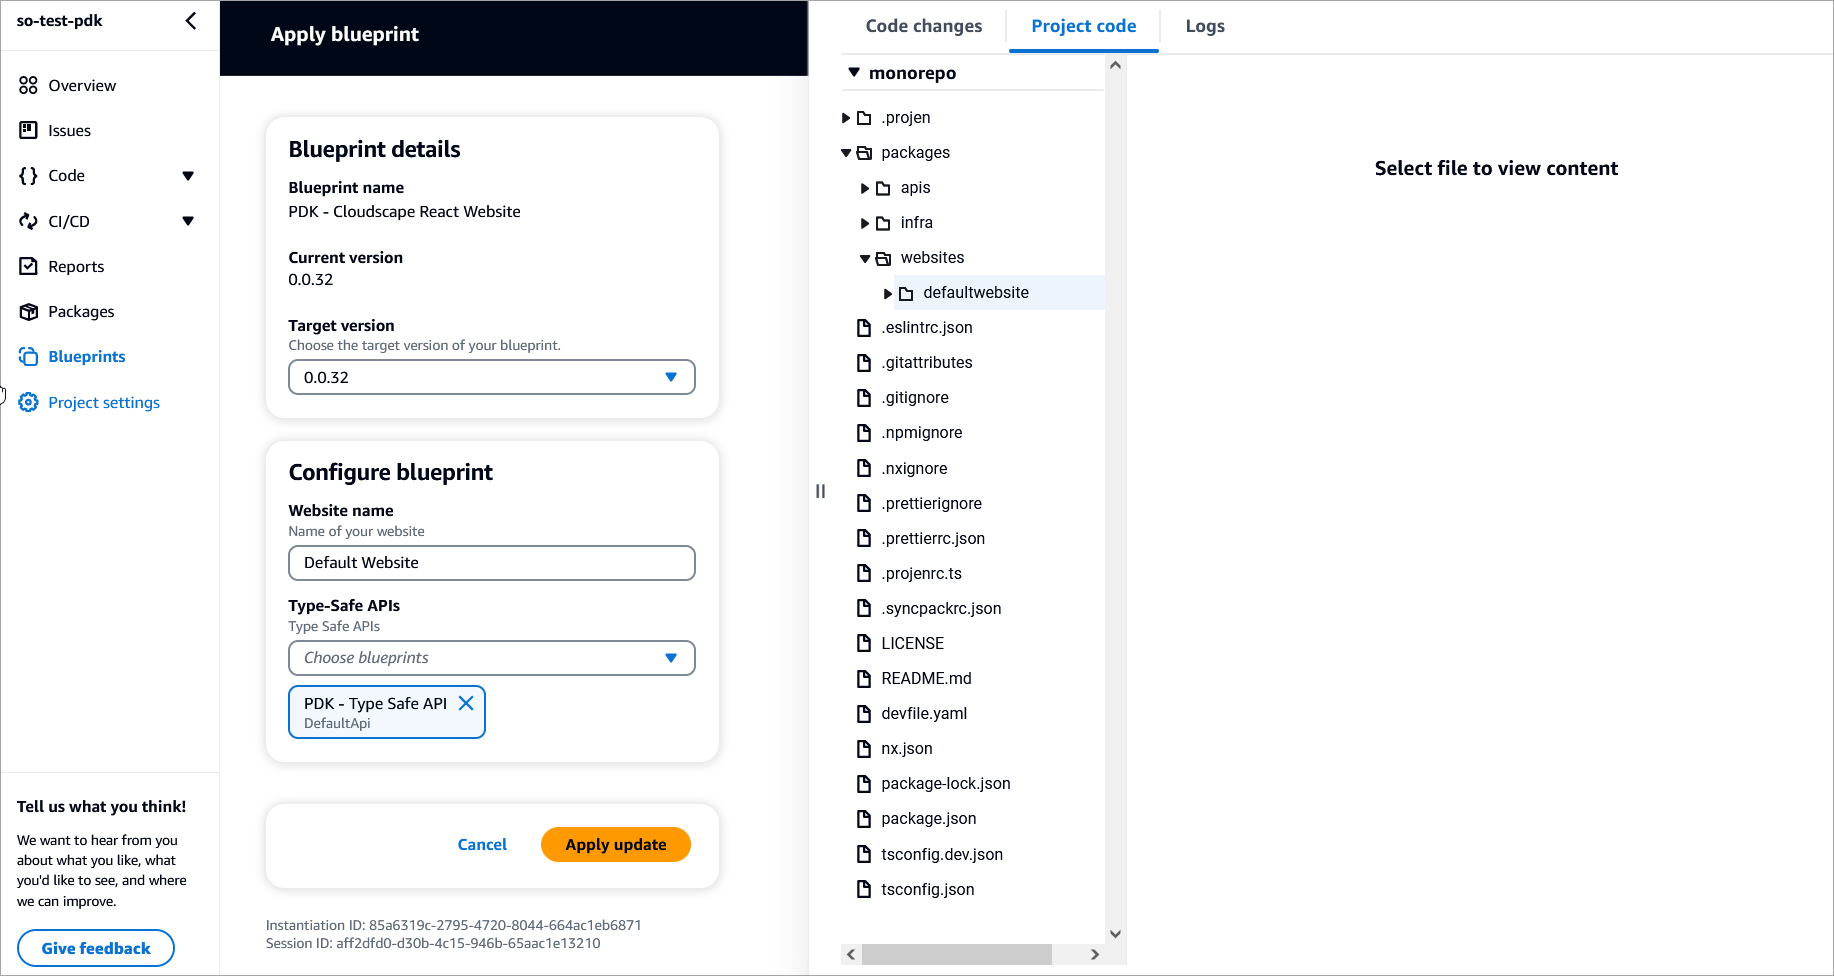
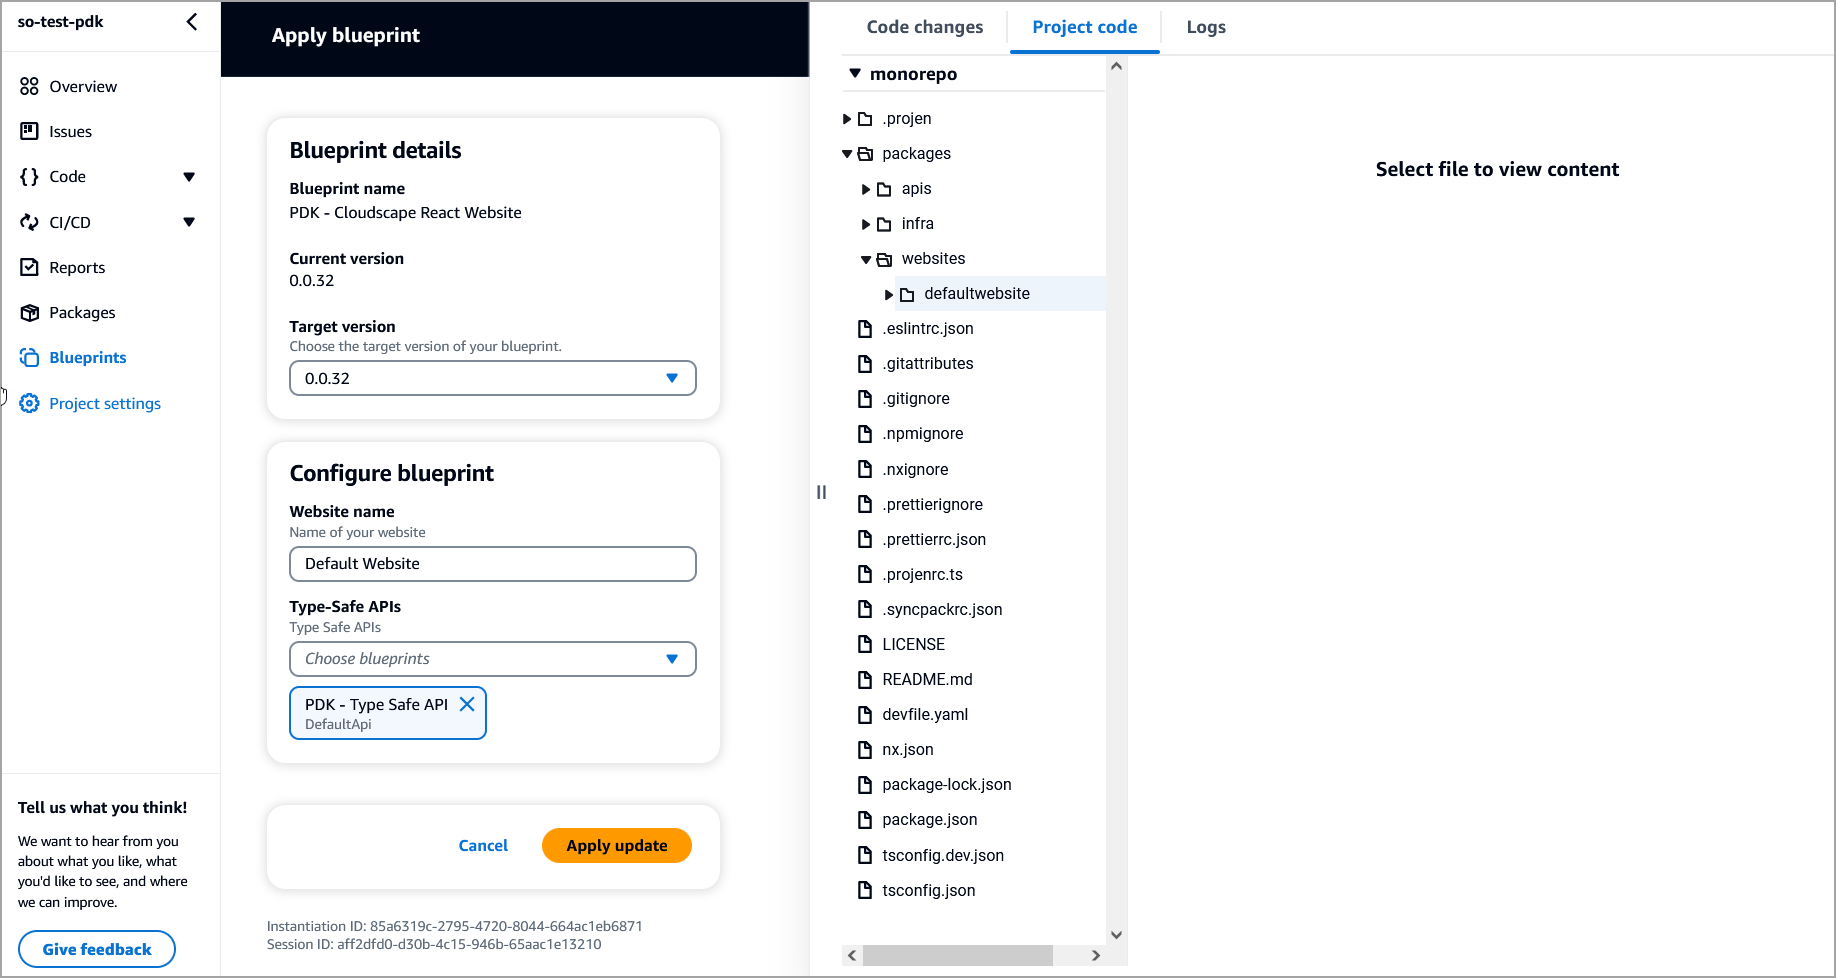
docs: updates to README and new screenshots

diff --git a/blueprints/monorepo/static-assets/README.md b/blueprints/monorepo/static-assets/README.md
@@ -4,18 +4,21 @@
 
 This project was generated using a [Project Development Kit (PDK)](https://aws.github.io/aws-pdk/) blueprint for creating a monorepo, which provides building blocks for common development patterns together with the tools to manage and build your projects.
 
-The PDK Monorepo Blueprint generates a devfile containing all needed PDK dependencies, for example, java, python, and node.
-
 From the PDK monorepo project overview page, you can:
 
-* View and create workflows,
-* Create new pull requests,
-* Manage your developer environments, and
-* View and manage issues created against your project
+* [Add](https://docs.aws.amazon.com/codecatalyst/latest/userguide/source-repositories-create.html) or [link](https://docs.aws.amazon.com/codecatalyst/latest/userguide/source-repositories-link.html) source repositories,
+* View and create [workflows](https://docs.aws.amazon.com/codecatalyst/latest/userguide/flows.html),
+* Create new [pull requests](https://docs.aws.amazon.com/codecatalyst/latest/userguide/source-pull-requests.html),
+* Manage your [developer environments](https://docs.aws.amazon.com/codecatalyst/latest/userguide/devenvironment.html), and
+* View and manage [issues](https://docs.aws.amazon.com/codecatalyst/latest/userguide/issues.html) created against your project.
+
+!!! Note
+
+    The PDK Monorepo Blueprint generates a devfile containing all needed PDK dependencies, for example, Java, Python, and Node.
 
 ## Applying PDK blueprints
 
-After you have set up the PDK monorepo project in CodeCatalyst, you can apply other PDK blueprints to the project to include additional functional components, resources, and governance. Your project supports various elements that are managed independently in separate blueprints. 
+After you have set up the PDK monorepo project in CodeCatalyst, you can apply other PDK blueprints to the project to include additional functional components, resources, and governance. Your project supports various elements that are managed independently in separate blueprints.
 
 Note: With PDK monorepo projects, we recommend applying PDK blueprints in the following order, as these blueprints have dependencies on each other:
 

diff --git a/blueprints/devops/README.md b/blueprints/devops/README.md
@@ -25,7 +25,7 @@ Ensure that you have set up a PDK monorepo project, and applied the Type Safe AP
     - From the role dropdown, select the **IAM role** to be used for deploying your project application.
     - Select the **Region** where you want to deploy your monorepo project.
     <img src="assets/images/devops-blueprint.png"/>
-6. Click **Apply blueprint** to apply the Infra blueprint to your monorepo project. A new `codecatalyst/workflows` folder is created within your monorepo project.
+6. Click **Apply blueprint** to apply the Devops blueprint to your monorepo project. A new `codecatalyst/workflows` folder is created within your monorepo project.
 
 ## Project resources
 

diff --git a/blueprints/type-safe-api/README.md b/blueprints/type-safe-api/README.md
@@ -11,7 +11,7 @@ Using Smithy or OpenAPI V3 allows you to use features such as generated client a
 
 This blueprint generates runtime projects from your API definition, which include clients for interacting with your API, and server-side code for implementing your API. The blueprint also generates a type-safe CDK construct with an integration for every API operation.
 
-You can apply (or stack on) this blueprint to an existing PDK Monorepo project for extending the API capabilities to a project.
+You can apply (or stack on) this blueprint to an existing PDK Monorepo project for extending the API capabilities of a project.
 
 ## Prerequisites
 
